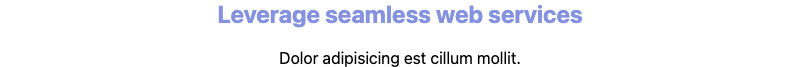
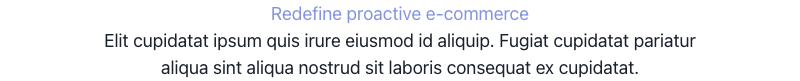
pushing some css changes

Changed region(s): [[0.25, 0.0597, 0.75, 0.4179], [0.125, 0.4179, 0.875, 0.6269], [0.1875, 0.7463, 0.8125, 1.0]]

diff --git a/.slicemachine/assets/slices/HomeSlice/index.stories.js b/.slicemachine/assets/slices/HomeSlice/index.stories.js
@@ -5,5 +5,5 @@ export default {
 }
 
 
-export const _Default = () => <MyComponent slice={{"variation":"default","name":"Default","slice_type":"home_slice","items":[{"hello":[{"type":"paragraph","text":"Fugiat adipisicing officia nulla consectetur sunt esse.","spans":[]}]},{"hello":[{"type":"paragraph","text":"Officia eiusmod qui dolor velit labore reprehenderit dolor. Aute aliqua laboris dolor cupidatat laborum eiusmod voluptate occaecat ex sunt qui exercitation id. Eu ipsum excepteur dolor ad ipsum labore dolor cupidatat incididunt deserunt.","spans":[]}]}],"primary":{"title":[{"type":"heading1","text":"Leverage seamless web services","spans":[]}],"description":[{"type":"paragraph","text":"Dolor adipisicing est cillum mollit.","spans":[]}],"homeImage":{"dimensions":{"width":50,"height":50},"alt":"Placeholder image","copyright":null,"url":"https://images.unsplash.com/photo-1585399000684-d2f72660f092?w=50&h=50&fit=crop"}},"id":"_Default"}} />
+export const _Default = () => <MyComponent slice={{"variation":"default","name":"Default","slice_type":"home_slice","items":[],"primary":{"title":[{"type":"heading1","text":"Redefine proactive e-commerce","spans":[]}],"description":[{"type":"paragraph","text":"Elit cupidatat ipsum quis irure eiusmod id aliquip. Fugiat cupidatat pariatur aliqua sint aliqua nostrud sit laboris consequat ex cupidatat.","spans":[]}],"homeImage":{"dimensions":{"width":50,"height":50},"alt":"Placeholder image","copyright":null,"url":"https://images.unsplash.com/photo-1437622368342-7a3d73a34c8f?w=50&h=50&fit=crop"}},"id":"_Default"}} />
 _Default.storyName = 'Default'
